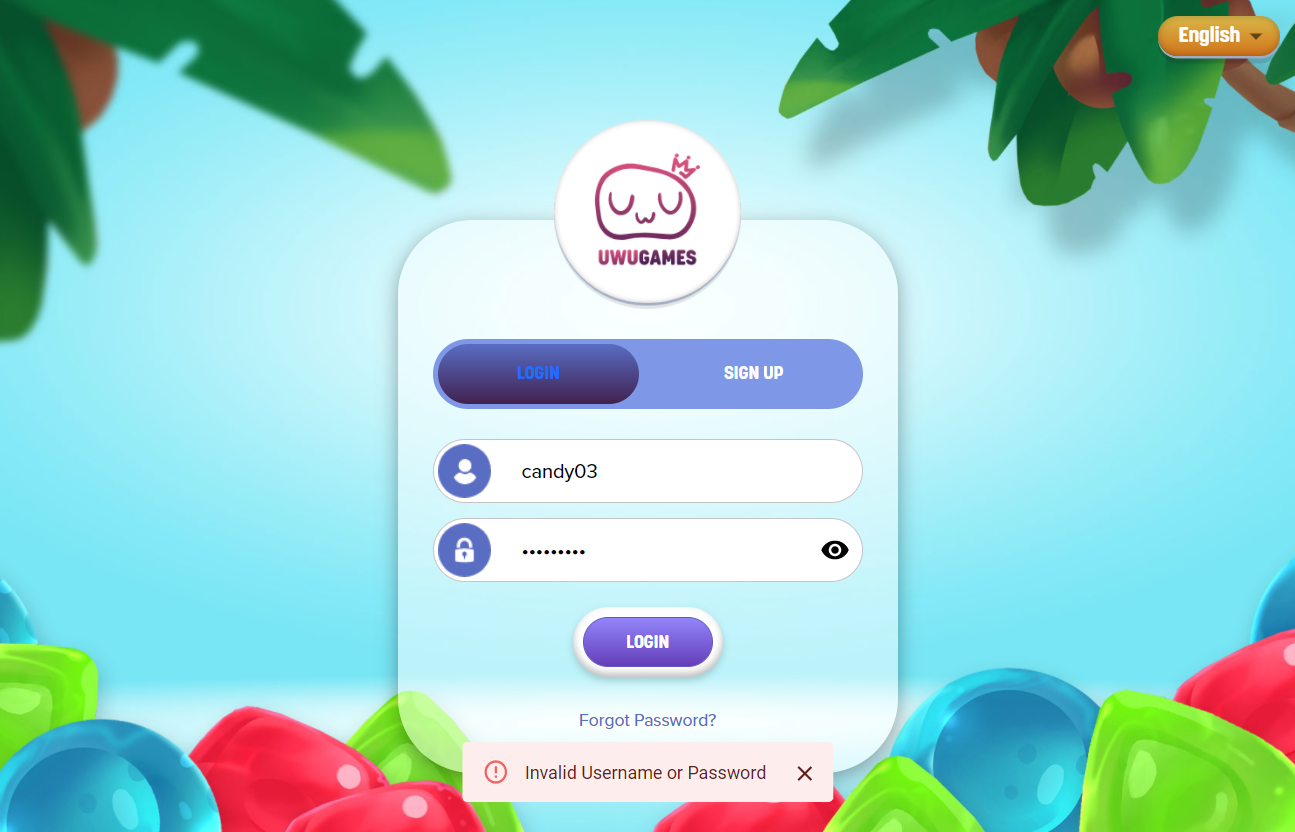
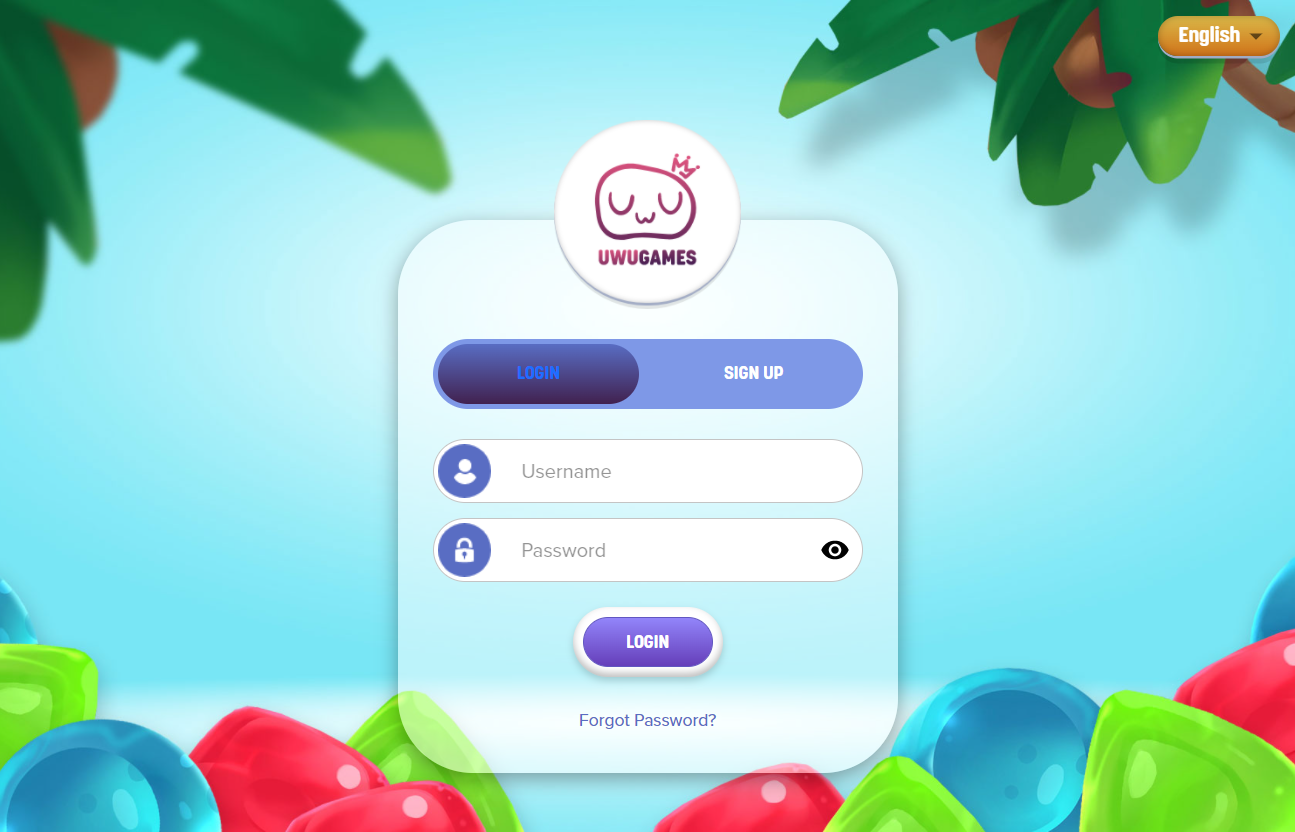
finally done change password

Changed region(s): [[0.3398, 0.875, 0.6486, 0.9688], [0.4015, 0.6562, 0.4633, 0.6875], [0.4015, 0.5625, 0.4633, 0.5938]]

diff --git a/test/flow/Profile.js b/test/flow/Profile.js
@@ -21,6 +21,16 @@ export default class Profile{
 
     async logout(){
 
+        // await (await ProfilePage.ProfileBTN).click();
+        await (await ProfilePage.SignOutBtn).click();
+        await (await ProfilePage.ConfirmBTN).click();
+
+        return this;
+
+    }
+
+    async logout02(){
+
         await (await ProfilePage.ProfileBTN).click();
         await (await ProfilePage.SignOutBtn).click();
         await (await ProfilePage.ConfirmBTN).click();
@@ -198,9 +208,10 @@ export default class Profile{
     }
 
     async ChangeLoginPassSuccess(){
-
-        //await ProfilePage.clickProfileBTN();
-        //await ProfilePage.clickChangeLoginPass();
+        
+        // await ProfilePage.open();
+        await ProfilePage.clickProfileBTN();
+        await ProfilePage.clickChangeLoginPass();
         await (await ProfilePage.CurrentPassword).doubleClick();
         await browser.keys('Delete');
         await (await ProfilePage.NewPassTXB).doubleClick();
@@ -212,6 +223,26 @@ export default class Profile{
         await ProfilePage.inputConfirmPass(this._testdata.confirmpassword);
         await ProfilePage.clickChangeSubmitBTN();
        
+    }
+
+    async loginNewPass(){
+
+        await ProfilePage.open();
+        await ProfilePage.inputUsername(this._testdata.username);
+        await ProfilePage.inputPassword(this._testdata.newpassword);
+        await ProfilePage.clickLoginBtn();
+
+        return this;
+    }
+
+    async loginOldPass(){
+
+        await ProfilePage.open();
+        await ProfilePage.inputUsername(this._testdata.username);
+        await ProfilePage.inputPassword(this._testdata.password);
+        await ProfilePage.clickLoginBtn();
+
+        return this;
     }
 
 

diff --git a/test/specs/profile.js b/test/specs/profile.js
@@ -128,24 +128,25 @@ describe( 'Profile002 - ', () => {
 
    //   });
 
-     it("T013 - Change Login Password successful", async() => {
+   //   it("T013 - Change Login Password successful", async() => {
 
-      const loginChange = testdata_CL.credential;
-      const profileflow = new Profile(loginChange);
-      await profileflow.ChangeLoginPassSuccess();
-      let error = await $('[class = "MuiAlert-message css-1w0ym84"]');
-      await expect(error).toHaveTextContaining('Successfully');
-      await loginFlow.logout();
+   //    const loginChange = testdata_CL.credential;
+   //    const profileflow = new Profile(loginChange);
+   //    await profileflow.login();
+   //    await profileflow.ChangeLoginPassSuccess();
+   //    let error = await $('[class = "MuiAlert-message css-1w0ym84"]');
+   //    await expect(error).toHaveTextContaining('Successfully');
+   //    await profileflow.logout();
 
-     });
+   //   });
 
      it("T014 - log into system with the new password", async() => {
 
       const login = testdata_CL.credential;
       const profileflow = new Profile(login);
-      //await profileflow.login();
+      await profileflow.loginNewPass();
       await expect(browser).toHaveUrlContaining('home'); 
-      await loginFlow.logout();
+      await profileflow.logout02();
 
      });
 
@@ -153,7 +154,7 @@ describe( 'Profile002 - ', () => {
 
       const loginFail = testdata_CL.credential;
       const profileflow = new Profile(loginFail);
-      //await profileflow.login();
+      await profileflow.loginOldPass();
       let error = await $('[class= "MuiAlert-message css-1w0ym84"]');
       await expect(error).toHaveText('Invalid Username or Password');
 

diff --git a/test/test_data/Profile002.js b/test/test_data/Profile002.js
@@ -2,9 +2,9 @@ import Credential from '../entity/credentialProfile';
 
 const credential = new Credential();
 credential.username = 'candy03';
-credential.password = 'Qwerty!23' ;
+credential.password = 'As!23123';
 credential.currentpassword = credential.password ;
-credential.newpassword = 'As!23123';
+credential.newpassword = 'Qwerty!23';
 credential.confirmpassword =credential.newpassword;
 credential.invalidpassword = '12356';
 credential.diffcurrent = 'Zxc!15678';
